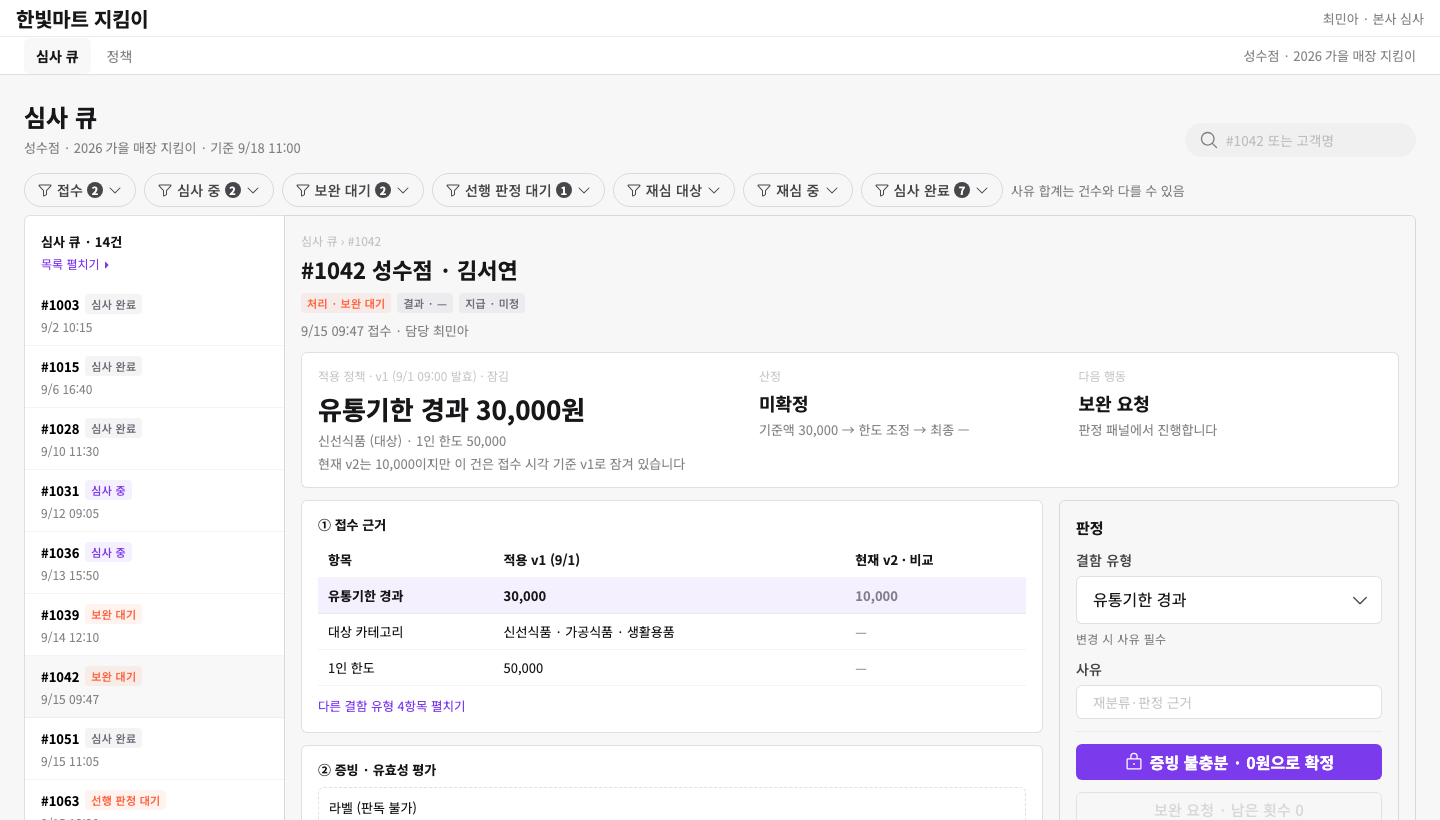
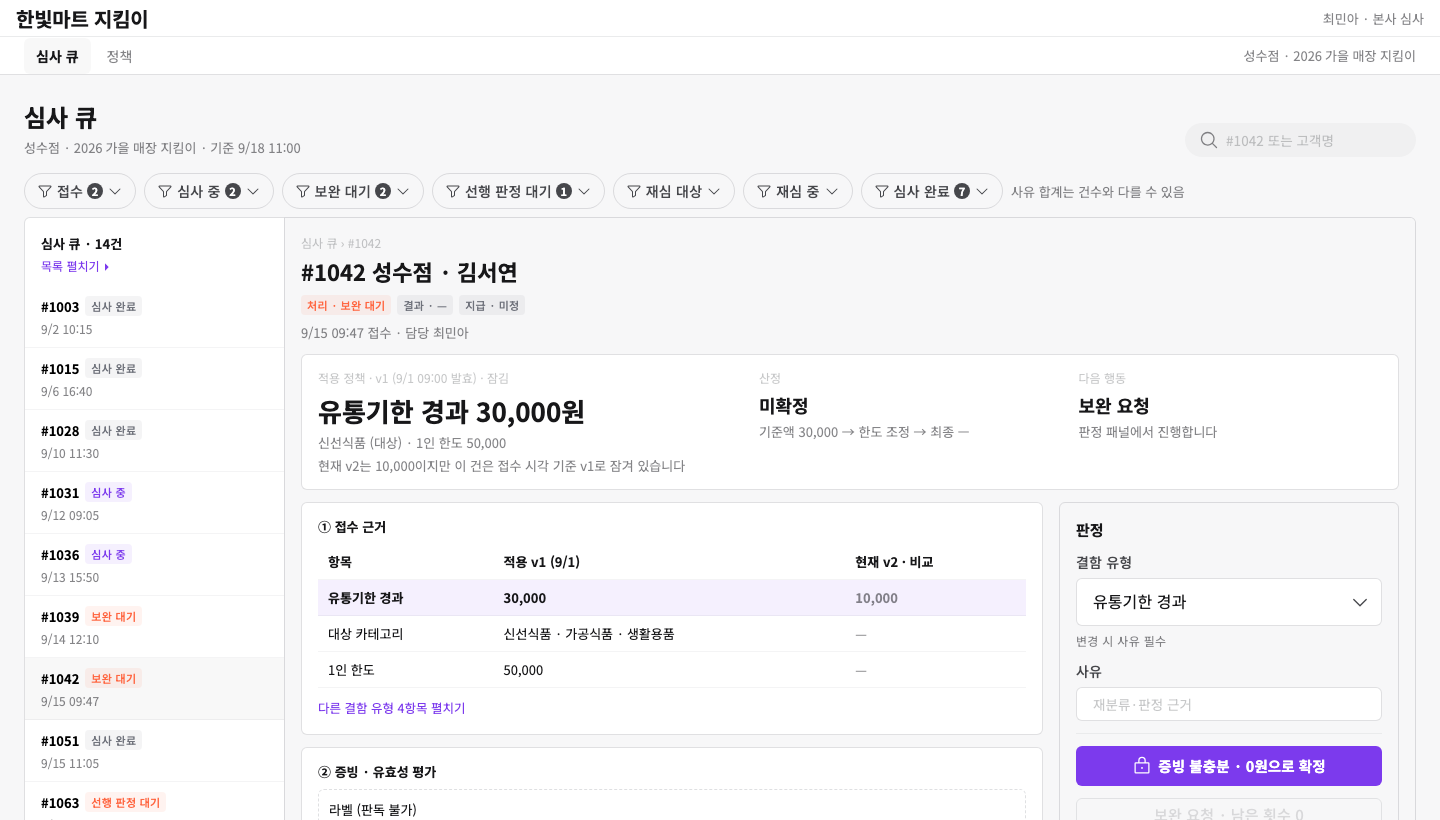
fix(app): 버튼 크기 체계를 되살리고 한 단계씩만 조인다
밀도층에서 모든 버튼을 34로 눌러 버려 주 행동이 보조 버튼과 같은
크기가 됐다. Iris의 l 48 · m 36 · s 32를 l 40 · m 34 · s 30으로
한 단계씩 낮춰, 판정 패널에서 확정 버튼이 다시 가장 크게 선다.

diff --git a/app/src/app.css b/app/src/app.css
@@ -202,9 +202,11 @@ table.basis tr.emph td { background: var(--iris-semantic-background-status-info)
 .app-shell [class*="iris-th-"] { height: 34px; padding: 0 12px; font-size: 11.5px; }
 /* 배지 — 톤은 그대로, 크기만 압축 */
 .app-shell [class*="iris-badge-"] { font-size: 11px; padding: 1px 6px; border-radius: 4px; }
-/* 버튼·입력 — 높이 한 단계 */
-.app-shell [class*="iris-button-"] { height: 34px; }
-.app-shell .panel [class*="iris-button-"] { height: 36px; }
+/* 버튼 — 크기 체계를 눌러 없애지 않고 한 단계씩만 조인다.
+   Iris 기본은 l 48 · m 36 · s 32. 주 행동은 여전히 가장 크다. */
+.app-shell [class*="iris-button-"][class*="iris-l-"] { height: 40px; font-size: 14.5px; }
+.app-shell [class*="iris-button-"][class*="iris-m-"] { height: 34px; }
+.app-shell [class*="iris-button-"][class*="iris-s-"] { height: 30px; }
 .app-shell [class*="iris-input-"] { --iris-input-height: 34px; font-size: 13.5px; }
 /* 셸 — 상단 두 줄을 조인다 */
 .app-shell .shell > [class*="iris-top"] { height: 52px; }

diff --git a/docs/appendix/design-system.md b/docs/appendix/design-system.md
@@ -41,7 +41,7 @@ Iris는 소비자 제품용 비례로 만들어져 있습니다. 표 행 48, 셀
 | 셀 글자 | 15 | 13 |
 | 모서리 | 8 · 12 | 4 · 6 |
 | 배지 | 12px, 알약 | 11px, 모서리 4 |
-| 버튼 높이 | 36 | 34 (판정 패널만 36) |
+| 버튼 높이 | l 48 · m 36 · s 32 | l 40 · m 34 · s 30 |
 | 셸 | 64 + 40 | 52 + 38 |
 
 **의미를 지닌 색은 건드리지 않았습니다.** 세 축 배지의 톤은 그대로입니다. 대신 선택된 행의 강조 틴트를 중립 회색으로 바꿔 보라가 화면에 넓게 깔리지 않게 했습니다. 보라는 주 버튼과 링크에만 남습니다.
